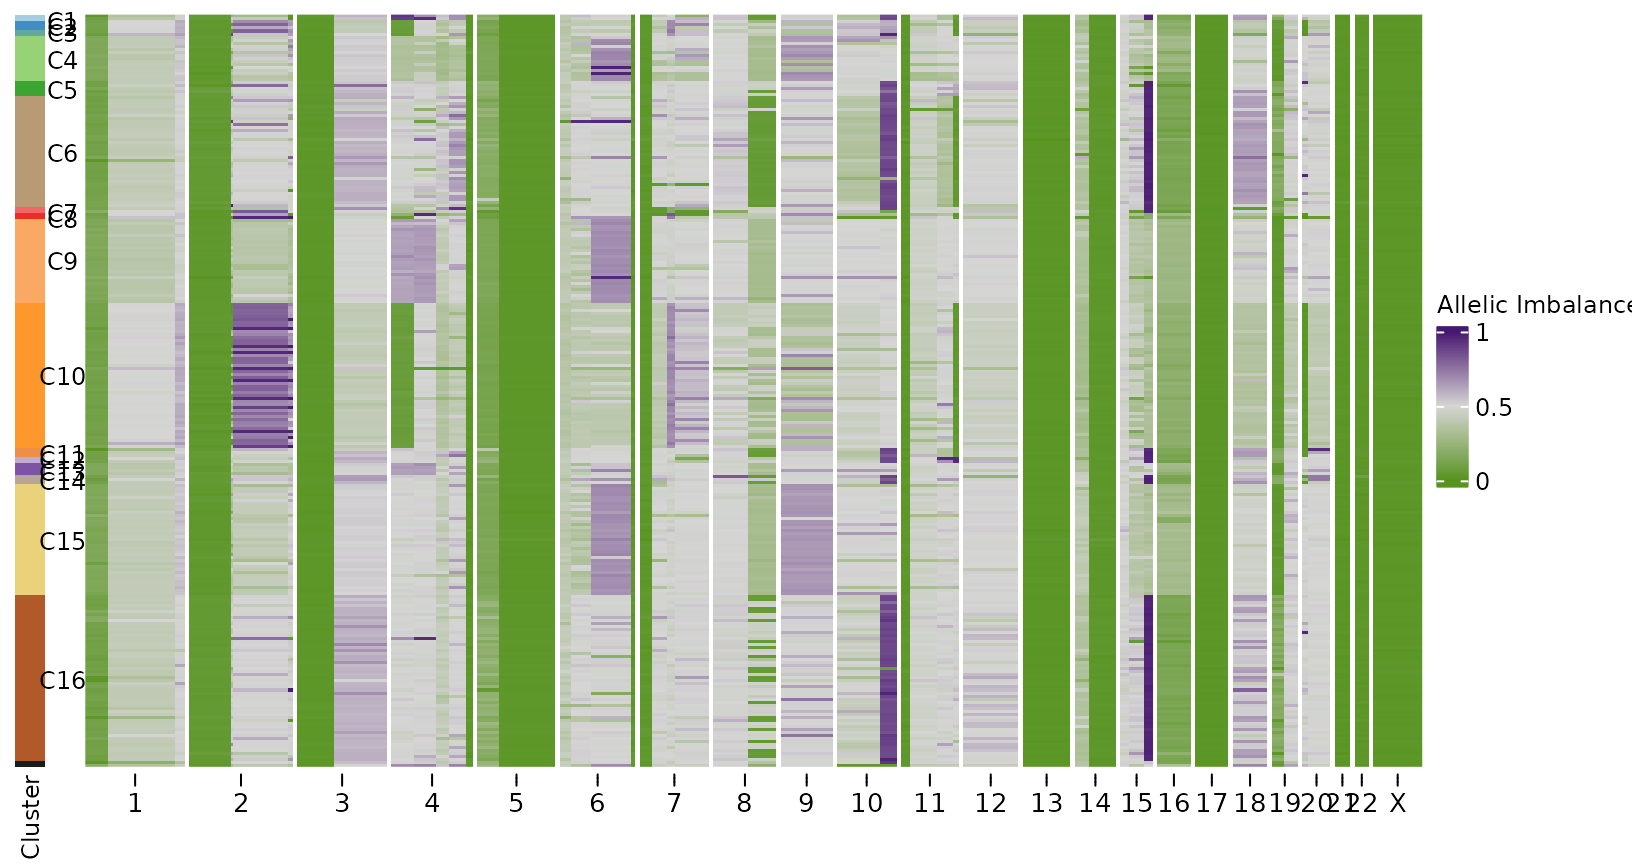
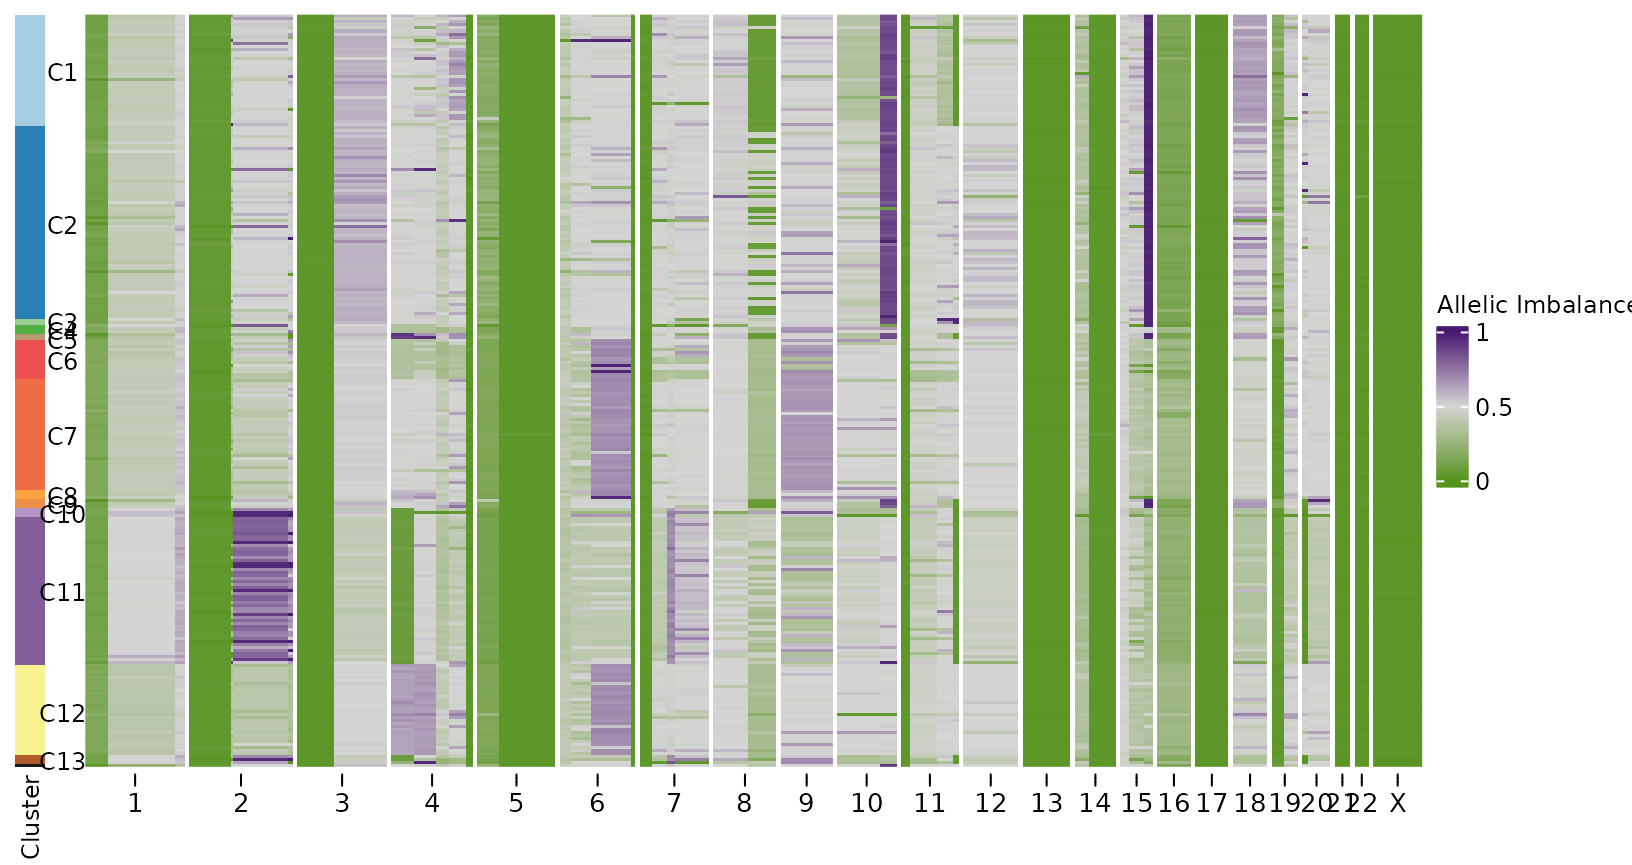
Deploying to gh-pages from @ shahcompbio/signals@998eb0d2338fd2a30a5b428cc10de9431c4724d3 🚀

Changed region(s): [[0.0, 0.0, 0.3125, 0.9052], [0.3438, 0.0, 0.625, 0.9052], [0.6562, 0.0, 0.8125, 0.9052]]

diff --git a/news/index.html b/news/index.html
@@ -17,7 +17,7 @@
       </button>
       <span class="navbar-brand">
         <a class="navbar-link" href="../index.html">signals</a>
-        <span class="version label label-default" data-toggle="tooltip" data-placement="bottom" title="">0.13.0</span>
+        <span class="version label label-default" data-toggle="tooltip" data-placement="bottom" title="">0.13.1</span>
       </span>
     </div>
 
@@ -60,6 +60,10 @@
 
     </div>
 
+    <div class="section level2">
+<h2 class="page-header" data-toc-text="0.13.1" id="signals-0131">signals 0.13.1<a class="anchor" aria-label="anchor" href="#signals-0131"></a></h2>
+<ul><li>Fix plotHeatmap annotation handling for data.table/tibble inputs</li>
+</ul></div>
     <div class="section level2">
 <h2 class="page-header" data-toc-text="0.13.0" id="signals-0130">signals 0.13.0<a class="anchor" aria-label="anchor" href="#signals-0130"></a></h2>
 <ul><li>Add SV visualization with lines and arcs style showing orientation</li>

diff --git a/authors.html b/authors.html
@@ -17,7 +17,7 @@
       </button>
       <span class="navbar-brand">
         <a class="navbar-link" href="index.html">signals</a>
-        <span class="version label label-default" data-toggle="tooltip" data-placement="bottom" title="">0.13.0</span>
+        <span class="version label label-default" data-toggle="tooltip" data-placement="bottom" title="">0.13.1</span>
       </span>
     </div>
 
@@ -76,13 +76,13 @@
 
     <p>Williams MJ, Funnell T (2026).
 <em>signals: Single Cell Genomes with Allele Specificity</em>.
-R package version 0.13.0.
+R package version 0.13.1.
 </p>
     <pre>@Manual{,
   title = {signals: Single Cell Genomes with Allele Specificity},
   author = {Marc J Williams and Tyler Funnell},
   year = {2026},
-  note = {R package version 0.13.0},
+  note = {R package version 0.13.1},
 }</pre>
 
   </div>

diff --git a/reference/HaplotypeHMM.html b/reference/HaplotypeHMM.html
@@ -18,7 +18,7 @@ sequence of minor allele copy number states given observed B-allele frequencies.
       </button>
       <span class="navbar-brand">
         <a class="navbar-link" href="../index.html">signals</a>
-        <span class="version label label-default" data-toggle="tooltip" data-placement="bottom" title="">0.13.0</span>
+        <span class="version label label-default" data-toggle="tooltip" data-placement="bottom" title="">0.13.1</span>
       </span>
     </div>
 

diff --git a/reference/alleleHMM.html b/reference/alleleHMM.html
@@ -20,7 +20,7 @@ within haplotype blocks."><!-- mathjax --><script src="https://cdnjs.cloudflare.
       </button>
       <span class="navbar-brand">
         <a class="navbar-link" href="../index.html">signals</a>
-        <span class="version label label-default" data-toggle="tooltip" data-placement="bottom" title="">0.13.0</span>
+        <span class="version label label-default" data-toggle="tooltip" data-placement="bottom" title="">0.13.1</span>
       </span>
     </div>
 

diff --git a/reference/assignHaplotypeHMM.html b/reference/assignHaplotypeHMM.html
@@ -18,7 +18,7 @@ combined CN/BAF data.frame format."><!-- mathjax --><script src="https://cdnjs.c
       </button>
       <span class="navbar-brand">
         <a class="navbar-link" href="../index.html">signals</a>
-        <span class="version label label-default" data-toggle="tooltip" data-placement="bottom" title="">0.13.0</span>
+        <span class="version label label-default" data-toggle="tooltip" data-placement="bottom" title="">0.13.1</span>
       </span>
     </div>
 

diff --git a/reference/assignalleleHMM.html b/reference/assignalleleHMM.html
@@ -18,7 +18,7 @@ combined CN/BAF data.frame format."><!-- mathjax --><script src="https://cdnjs.c
       </button>
       <span class="navbar-brand">
         <a class="navbar-link" href="../index.html">signals</a>
-        <span class="version label label-default" data-toggle="tooltip" data-placement="bottom" title="">0.13.0</span>
+        <span class="version label label-default" data-toggle="tooltip" data-placement="bottom" title="">0.13.1</span>
       </span>
     </div>
 

diff --git a/reference/combineBAFCN.html b/reference/combineBAFCN.html
@@ -18,7 +18,7 @@ data.frame with copy number states and B-allele frequency (BAF) for each bin."><
       </button>
       <span class="navbar-brand">
         <a class="navbar-link" href="../index.html">signals</a>
-        <span class="version label label-default" data-toggle="tooltip" data-placement="bottom" title="">0.13.0</span>
+        <span class="version label label-default" data-toggle="tooltip" data-placement="bottom" title="">0.13.1</span>
       </span>
     </div>
 

diff --git a/reference/computehaplotypecounts.html b/reference/computehaplotypecounts.html
@@ -19,7 +19,7 @@ balanced cells that could add noise to phasing."><!-- mathjax --><script src="ht
       </button>
       <span class="navbar-brand">
         <a class="navbar-link" href="../index.html">signals</a>
-        <span class="version label label-default" data-toggle="tooltip" data-placement="bottom" title="">0.13.0</span>
+        <span class="version label label-default" data-toggle="tooltip" data-placement="bottom" title="">0.13.1</span>
       </span>
     </div>
 

diff --git a/reference/format_haplotypes.html b/reference/format_haplotypes.html
@@ -19,7 +19,7 @@ haplotype block.'><!-- mathjax --><script src="https://cdnjs.cloudflare.com/ajax
       </button>
       <span class="navbar-brand">
         <a class="navbar-link" href="../index.html">signals</a>
-        <span class="version label label-default" data-toggle="tooltip" data-placement="bottom" title="">0.13.0</span>
+        <span class="version label label-default" data-toggle="tooltip" data-placement="bottom" title="">0.13.1</span>
       </span>
     </div>
 

diff --git a/reference/format_haplotypes_dlp.html b/reference/format_haplotypes_dlp.html
@@ -19,7 +19,7 @@ and converting from long to wide format."><!-- mathjax --><script src="https://c
       </button>
       <span class="navbar-brand">
         <a class="navbar-link" href="../index.html">signals</a>
-        <span class="version label label-default" data-toggle="tooltip" data-placement="bottom" title="">0.13.0</span>
+        <span class="version label label-default" data-toggle="tooltip" data-placement="bottom" title="">0.13.1</span>
       </span>
     </div>
 

diff --git a/reference/get_sv_lines_and_arcs_legend.html b/reference/get_sv_lines_and_arcs_legend.html
@@ -19,7 +19,7 @@ composition when the embedded legend does not display correctly."><!-- mathjax -
       </button>
       <span class="navbar-brand">
         <a class="navbar-link" href="../index.html">signals</a>
-        <span class="version label label-default" data-toggle="tooltip" data-placement="bottom" title="">0.13.0</span>
+        <span class="version label label-default" data-toggle="tooltip" data-placement="bottom" title="">0.13.1</span>
       </span>
     </div>
 

diff --git a/reference/phase_haplotypes.html b/reference/phase_haplotypes.html
@@ -19,7 +19,7 @@ counts is assigned as the "A" allele.'><!-- mathjax --><script src="https://cdnj
       </button>
       <span class="navbar-brand">
         <a class="navbar-link" href="../index.html">signals</a>
-        <span class="version label label-default" data-toggle="tooltip" data-placement="bottom" title="">0.13.0</span>
+        <span class="version label label-default" data-toggle="tooltip" data-placement="bottom" title="">0.13.1</span>
       </span>
     </div>
 
